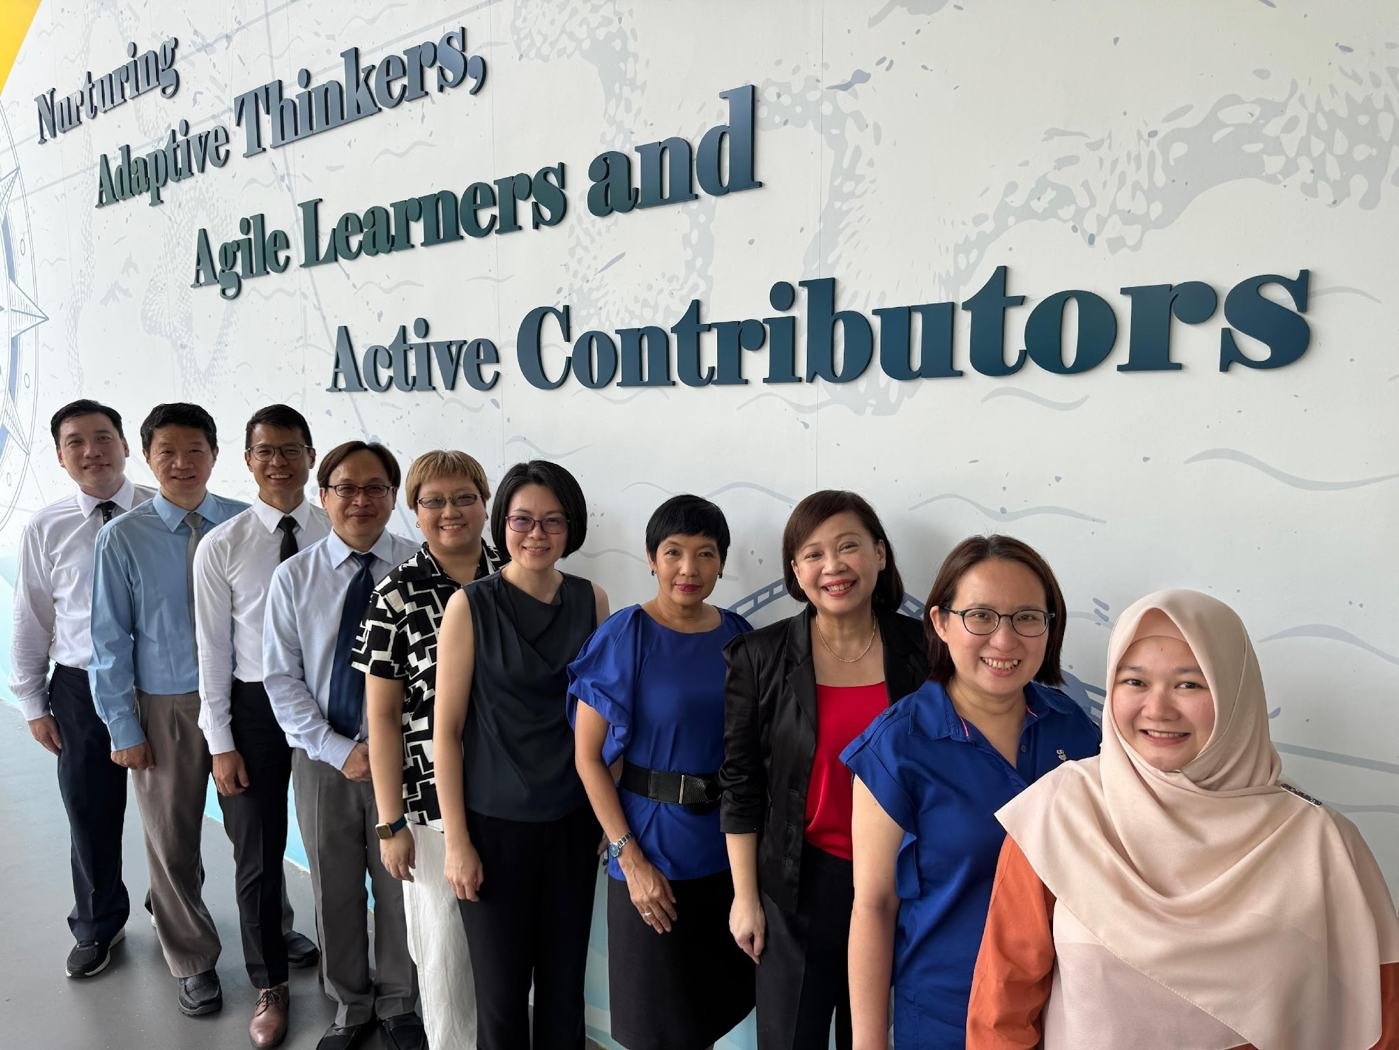
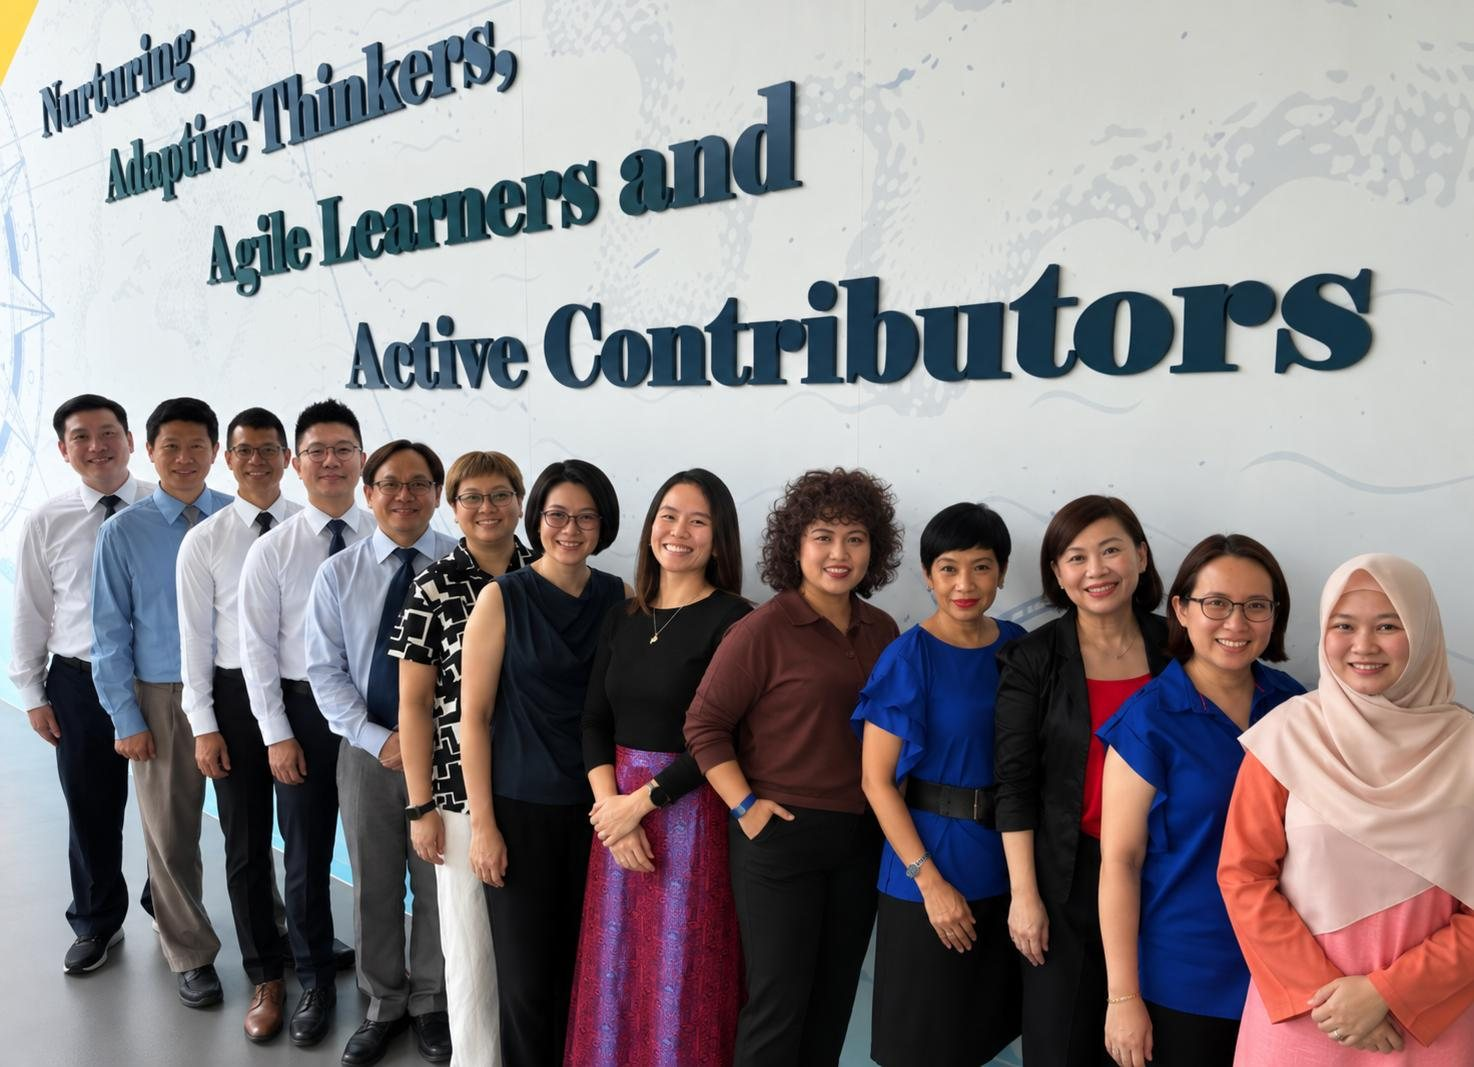
Canteen: a new animated food slide, and the newer staff photo
- New slide after 'Our canteen makeover!': 'Wide selection. Nutritious. Yummy!'.
  Eight round plates are served one by one, the plates shot from above turn
  slowly, and every two seconds one turns over to show the stall holder, then
  a second dish (16 dishes and 7 stall holders from 15 photos, none repeated).
- The photos are round cuts, 640 px, about 70 KB each (1.6 MB in all, from
  2 GB of originals), fetched as soon as the chapter opens.
- 'Our caring teachers': the second photo is replaced with the newer group shot.
- The end to end test checks the plates, their photos and the turning.

Claude-Session: https://claude.ai/code/session_01HFLukEU6NirBTN83HDK143

diff --git a/gem/index.html b/gem/index.html
@@ -1637,6 +1637,31 @@ footer:hover #prevBtn, footer:hover #nextBtn{opacity:1}   /* over the footer the
 .scene.cream .sc-logos .lg, .scene.cream .sc-links .qr{ border:1px solid var(--paper-line); box-shadow:none }
 .scene.cream .ft-media.round figure{ box-shadow:0 0 0 3px var(--red) }
 .scene.cream .sc-gal figure, .scene.cream .ft-media figure, .scene.cream .sc-qimg figure, .scene.cream .fit-box > figure .fx, .scene.cream .fit-box > figure img{ box-shadow:0 1px 2px rgba(0,12,83,.10), 0 10px 24px rgba(0,12,83,.07) }
+
+/* ============================================================================================================
+   THE FEAST (kind:'feast'): the canteen's dishes as round plates on the table. They are served one by one,
+   the plates shot from above turn slowly, and each plate turns over to show who cooks it, then the next dish.
+   ============================================================================================================ */
+.sc-feast{flex:1 1 0; min-height:0; width:100%; max-height:calc(70*var(--vh)); container-type:size; display:flex; flex-direction:column; align-items:center; justify-content:center; --pd:min(46cqh,19.4cqw)}
+.fs-row{display:flex; justify-content:center; gap:calc(var(--pd)*.14)}
+.fs-row:first-child{margin-right:calc(var(--pd)*.57)} .fs-row + .fs-row{margin-left:calc(var(--pd)*.57); margin-top:calc(var(--pd)*.02)}
+.fs-plate{position:relative; flex:none; width:var(--pd); height:var(--pd); margin:0; animation:fsIn .95s cubic-bezier(.2,.9,.25,1) both; animation-delay:calc(450ms + var(--i)*130ms)}
+@keyframes fsIn{0%{opacity:0; transform:translate(var(--fx),var(--fy)) rotate(var(--fr)) scale(.5)} 68%{opacity:1; transform:translate(0,0) rotate(7deg) scale(1.05)} 100%{opacity:1; transform:none}}
+.fs-bob{position:absolute; inset:0; perspective:1400px; animation:fsBob 4.4s ease-in-out infinite alternate; animation-delay:calc(var(--i)*-.83s)}
+@keyframes fsBob{from{transform:translateY(-1.6%)} to{transform:translateY(1.6%)}}
+.fs-flip{position:absolute; inset:0; transform-style:preserve-3d; transform:rotateY(calc(var(--t,0)*180deg)); transition:transform .95s cubic-bezier(.3,1.25,.4,1)}
+.fs-side{position:absolute; inset:0; border-radius:50%; overflow:hidden; backface-visibility:hidden; -webkit-backface-visibility:hidden; background:var(--cream-deep);
+  box-shadow:0 calc(var(--pd)*.06) calc(var(--pd)*.09) calc(var(--pd)*-.05) rgba(70,48,12,.5), 0 0 0 1px rgba(0,12,83,.07)}
+.fs-back{transform:rotateY(180deg)}
+.fs-side img{display:block; width:100%; height:100%; object-fit:cover; border-radius:50%}
+.fs-plate.spin .fs-side img.dish{animation:fsSpin 90s linear infinite} .fs-plate.spin:nth-child(even) .fs-side img.dish{animation-direction:reverse}
+@keyframes fsSpin{to{transform:rotate(360deg)}}
+.fs-plate figcaption{position:absolute; z-index:3; left:50%; bottom:-3%; transform:translateX(-50%); white-space:nowrap; background:var(--cream); color:var(--paper-ink); border:1px solid var(--paper-line); border-radius:999px;
+  padding:.22em .9em .26em; font-family:var(--sans); font-weight:700; font-size:max(20px,calc(1.12*var(--vw))); line-height:1.2; animation:fsCap .5s var(--ease) both; animation-delay:calc(1300ms + var(--i)*130ms)}
+@keyframes fsCap{from{opacity:0; transform:translate(-50%,60%)} to{opacity:1; transform:translate(-50%,0)}}
+.fs-w{display:inline-block; animation:fsWord .6s cubic-bezier(.2,1.4,.3,1) both; animation-delay:calc(200ms + var(--w)*620ms)}
+@keyframes fsWord{from{opacity:0; transform:translateY(.45em) scale(.92)} to{opacity:1; transform:none}}
+html.calm .fs-plate, html.calm .fs-bob, html.calm .fs-w, html.calm .fs-plate figcaption, html.calm .fs-side img{animation:none} html.calm .fs-flip{transition:none}
 </style>
 </head>
 <body>
@@ -2852,6 +2877,7 @@ function phoneFor(s){
     case 'cover':     return { t:'point', icon:s.icon||'', title:s.title||'', line:s.sub||'' };
     case 'photo':     return { t:'look', icon:'eye', title:s.title||'Look up', line:s.caption||'' };
     case 'gallery':   return { t:'look', icon:'eye', title:s.title||'Look up', line:s.sub||s.note||'' };
+    case 'feast':     return { t:'look', icon:'eye', title:s.title||'Look up', line:s.sub||'' };
     case 'feature':   { const k=(s.items||[]).map(x=>typeof x==='string'?x:(x.title||x.body)).filter(Boolean).slice(0,4); return k.length ? { t:'keys', title:s.title||'', keys:k } : { t:'point', icon:'', title:s.title||'', line:s.sub||'' }; }
     case 'people':    return { t:'keys', title:s.title||'', keys:(s.items||[]).map(x=>[x.name,x.role].filter(Boolean).join(' · ')).filter(Boolean).slice(0,5) };
     case 'columns':   return { t:'keys', title:s.title||'', keys:(s.cols||[]).map(c=>c.head+': '+(c.items[0]||'')) };
@@ -3090,6 +3116,13 @@ function animateSlide(s, body){
       T(()=>{ now(2); body.querySelector('.cr-shine')?.classList.add('go'); }, landed+150);
       T(()=>lis.forEach(li=>{ li.classList.remove('now'); li.classList.add('lit','done'); }), landed+2200); } }
   if(s.kind==='stairs') runStairs(body, live, reduce);
+  if(s.kind==='feast' && !reduce){   // every two seconds a plate turns over: the dish, who cooks it, the next dish
+    const ps=[...body.querySelectorAll('.fs-plate')].map(el=>({ el, faces:JSON.parse(el.dataset.faces||'[]'), k:0, t:0 })).filter(p=>p.faces.length>1);
+    const turn=p=>{ p.k=(p.k+1)%p.faces.length; p.t++; const f=p.faces[p.k], im=p.el.querySelector(p.t%2?'.fs-back img':'.fs-front img');
+      if(im.getAttribute('src')!==IMG(f.s)) im.src=IMG(f.s); im.classList.toggle('dish', f.t==='dish'); p.el.querySelector('.fs-flip').style.setProperty('--t', p.t); return f; };
+    const order=[0,5,2,7,1,4,3,6].filter(i=>i<ps.length); let n=0;
+    const tick=()=>{ if(!ps.length) return; const p=ps[order[n++%order.length]], f=turn(p); if(f.t==='by') T(()=>turn(p), 3800); T(tick, 2000); };
+    T(tick, 3400); }
   if(s.kind==='mix'){ const box=body.querySelector('.sc-mixer'); if(!box) return; const W=box.clientWidth, H=box.clientHeight, nC=+box.dataset.classes, nL=+box.dataset.levels, dots=[...box.querySelectorAll('.mx-dot')];
       const gap=W*.02;
       // One box height for both phases (the tallest), and the biggest dots that fit it, so the boxes fill the
@@ -3310,6 +3343,14 @@ function slideHTML(s){
       return `${T(s.title, s.sub?' sm tight':' sm')}${s.sub?`<p class="sc-sub2 bi${cnt?' has-stat':''}"${D_(140)}>${escH(s.sub)}${cnt}</p>`:''}
         <div class="sc-gal fit-box${s.whole?' whole':''} bi"${D_(160)}>${im.map(FIG).join('')}</div>
         ${s.note?`<p class="sc-note bi"${D_(300)}>${escH(s.note)}</p>`:''}`; }
+    case 'feast': {   // round plates: each is { a, b, by, cap, spin } = a dish, a second dish, who cooks it, a label, and whether it was shot from above (so it may turn)
+      const P=s.plates||[], half=Math.ceil(P.length/2), words=String(s.title||'').match(/[^.!?]+[.!?]*/g)||[];
+      const plate=(p,i)=>{ const faces=[{s:p.a,t:'dish'}, ...(p.by?[{s:p.by,t:'by'}]:[]), ...(p.b?[{s:p.b,t:'dish'}]:[]), ...(p.by&&p.b?[{s:p.by,t:'by'}]:[])], nx=faces[1]||faces[0], side=i%2?1:-1;
+        return `<figure class="fs-plate${p.spin?' spin':''}" style="--i:${i}; --fx:${side*(260+(i%3)*90)}px; --fy:${-(180+(i%4)*60)}px; --fr:${side*(150+(i%3)*40)}deg" data-faces="${escH(JSON.stringify(faces))}">
+          <div class="fs-bob"><div class="fs-flip"><span class="fs-side fs-front"><img class="dish" src="${IMG(p.a)}" alt="${escH(p.cap||'')}"></span><span class="fs-side fs-back"><img${nx.t==='dish'?' class="dish"':''} src="${IMG(nx.s)}" alt=""></span></div></div>
+          ${p.cap?`<figcaption>${escH(p.cap)}</figcaption>`:''}</figure>`; };
+      return `<h2 class="sc-t sm${s.sub?' tight':''} bi"${D_(60)}>${words.map((w,i)=>`<span class="fs-w" style="--w:${i}">${escH(w.trim())}</span>`).join(' ')}</h2>${s.sub?`<p class="sc-sub2 bi"${D_(140)}>${escH(s.sub)}</p>`:''}
+        <div class="sc-feast"><div class="fs-row">${P.slice(0,half).map(plate).join('')}</div><div class="fs-row">${P.slice(half).map((p,i)=>plate(p,i+half)).join('')}</div></div>`; }
     case 'feature': { const im=(s.imgs||(s.img?[s.img]:[])).map(x=>typeof x==='string'?{src:x}:x).map(x=>s.fit&&!x.fit?{...x,fit:s.fit}:x);
       const media = s.round
         ? `<div class="ft-media round bi"${D_(140)}>${im.slice(0,1).map(x=>`<figure><img src="${IMG(x.src)}" alt="" style="object-position:${escH(x.pos||s.pos||'50% 30%')}"></figure>`).join('')}</div>`
@@ -3475,7 +3516,7 @@ function paintSceneLive(){
 function countUp(el, from, to, ms, suffixHTML=''){ const t0=performance.now();
   if(CALM){ el.innerHTML=to+suffixHTML; return; }
   (function tick(now){ const p=Math.min(1,(now-t0)/ms), e=1-Math.pow(1-p,3); el.innerHTML=Math.round(from+(to-from)*e)+suffixHTML; if(p<1 && el.isConnected) requestAnimationFrame(tick); })(t0); }
-function slideImgs(s){ if(!s) return []; return [s.img && (typeof s.img==='string'?s.img:s.img.src), ...(s.imgs||[]).map(x=>typeof x==='string'?x:x.src), ...((s.items||[]).map(x=>x&&x.img))].filter(Boolean); }
+function slideImgs(s){ if(!s) return []; return [s.img && (typeof s.img==='string'?s.img:s.img.src), ...(s.imgs||[]).map(x=>typeof x==='string'?x:x.src), ...((s.items||[]).map(x=>x&&x.img)), ...(s.plates||[]).flatMap(p=>[p.a,p.b,p.by])].filter(Boolean); }
 const preloaded=new Set();
 function preloadSlide(s){ slideImgs(s).forEach(p=>{ const u=IMG(p); if(preloaded.has(u)) return; preloaded.add(u); const im=new Image(); im.src=u; }); }
 function paintScene(){
@@ -3506,6 +3547,7 @@ function paintScene(){
   setTimeout(()=>{ if(!live()) return; body.querySelectorAll('[data-ring]').forEach(c=>c.style.strokeDashoffset=String(100-(+c.dataset.ring||0))); body.querySelectorAll('.sc-row .trk i[data-w]').forEach((el,i)=>setTimeout(()=>el.style.width=el.dataset.w+'%', i*60)); }, 420);
   if(s.kind==='live' || s.kind==='ask') setTimeout(paintSceneLive, 40);
   animateSlide(s, body);
+  d.slides.forEach(x=>{ if(x.kind==='feast') preloadSlide(x); });   // many small photos: fetched when the chapter opens, so the plates never arrive empty
   preloadSlide(d.slides[sceneIdx+1]) ; preloadSlide(journeySteps[currentStep+1] && deckFor(journeySteps[currentStep+1])?.slides[0]);
   if(isPresenter) updatePPStep();
   const lastOne=currentStep===journeySteps.length-1 && sceneIdx===d.slides.length-1; if(!(st.type==='poll' && !st.revealed)) nextBtn.textContent=lastOne?'Finish':'Next ❯';

diff --git a/gem/deck/img/sizes.js b/gem/deck/img/sizes.js
@@ -1,3 +1,3 @@
 /* Photo sizes for the slides (width, height), so photos are laid out whole before they load.
    Regenerate after adding photos: python3 deck/img/make_sizes.py */
-window.BTY_IMG_SIZES = {"b/alp-1.jpg":[1280,731],"b/alp-2.jpg":[999,371],"b/alp-3.jpg":[1279,773],"b/alp-4.jpg":[1920,790],"b/alp-bh-v2.jpg":[865,618],"b/alp-bh.jpg":[865,839],"b/alp3-v2.jpg":[1200,651],"b/alp3.jpg":[1200,785],"b/award-3.jpg":[1283,1050],"b/award-table.jpg":[1400,732],"b/award-team.jpg":[1400,822],"b/canoe-2.jpg":[1049,1050],"b/canoe.jpg":[1199,1200],"b/clip-cca.jpg":[1030,767],"b/clip-habits-v2.jpg":[1400,639],"b/clip-habits.jpg":[1400,854],"b/ecg-1.jpg":[1399,1050],"b/ecg-2.jpg":[1400,1050],"b/ecg-3.jpg":[1400,824],"b/gifts-1.jpg":[1868,1200],"b/gifts-2.jpg":[960,663],"b/gifts-3.jpg":[959,662],"b/grow.jpg":[1160,693],"b/journal-1.jpg":[630,878],"b/journal-2.jpg":[628,877],"b/journal-3.jpg":[598,850],"b/journal-4.jpg":[578,843],"b/maker-3d.jpg":[1027,789],"b/maker-drone.jpg":[636,474],"b/maker-heatpress.jpg":[497,373],"b/maker-laser.jpg":[463,341],"b/maker-neon.jpg":[343,258],"b/maker-sewing.jpg":[553,414],"b/maker-space.jpg":[878,322],"b/morning.jpg":[1124,959],"b/notes-1.jpg":[730,1050],"b/notes-2.jpg":[746,960],"b/pa-1.jpg":[960,525],"b/pa-2.jpg":[960,462],"b/pa-3.jpg":[897,1000],"b/pa-4.jpg":[934,1050],"b/pa-5.jpg":[1021,999],"b/pa-6.jpg":[646,639],"b/pa.jpg":[1600,900],"b/pld-1.jpg":[1162,1050],"b/pld-2.jpg":[1050,1050],"b/practice.jpg":[984,617],"b/rockwell.jpg":[1400,782],"b/sports.jpg":[1600,900],"b/ug.jpg":[1600,900],"f/alum-goh.jpg":[162,251],"f/alum-loh.jpg":[163,251],"f/alum-ow.jpg":[163,251],"f/alum-shih.jpg":[162,251],"f/choose.jpg":[1600,1200],"f/future-1.jpg":[444,455],"f/future-2.jpg":[570,585],"f/future-3.jpg":[537,549],"f/future-4.jpg":[513,532],"f/future-5.jpg":[448,456],"f/map.jpg":[1223,668],"f/parent-quote.jpg":[1050,1050],"f/rainbow-v2.jpg":[1240,784],"f/rainbow.jpg":[1280,905],"c/el-1.jpg":[421,280],"c/el-2.jpg":[373,247],"c/el-3.jpg":[266,467],"c/el-4.jpg":[365,274],"c/ganjunhuan.jpg":[338,435],"c/lead-1.jpg":[910,960],"c/lead-2.jpg":[1400,764],"c/lead-3.jpg":[1400,674],"c/math-1.jpg":[311,234],"c/math-2.jpg":[311,233],"c/math-3.jpg":[309,231],"c/mt-1.jpg":[1400,934],"c/mt-2.jpg":[1400,1049],"c/mt-3.jpg":[1399,1050],"c/nx101-1.jpg":[1400,505],"c/nx101-2.jpg":[1400,934],"c/nx101-3.jpg":[1400,993],"c/nx101-4.jpg":[1275,1050],"c/nx201-1.jpg":[1000,613],"c/nx201-2.jpg":[1400,727],"c/nx201-3.jpg":[1400,951],"c/nx201-4.jpg":[586,432],"c/nx201-5.jpg":[867,665],"c/sci-1.jpg":[360,202],"c/sci-2.jpg":[674,414],"c/sci-3.jpg":[774,1050],"c/sci-4.jpg":[788,1050],"c/simc.jpg":[485,684],"c/stewards.jpg":[1031,1050],"c/via-1.jpg":[1400,788],"c/via-2.jpg":[1400,1049],"c/via-3.jpg":[659,472],"c/wheel.png":[1200,800],"e/canteen-1.jpg":[366,609],"e/canteen-2.jpg":[741,616],"e/canteen-3.jpg":[759,631],"e/canteen-4.jpg":[752,625],"e/canteen-cna-v2.jpg":[1153,844],"e/canteen-cna.jpg":[1153,894],"e/classroom.jpg":[1600,1200],"e/entrance.jpg":[1400,997],"e/foyer.jpg":[1199,727],"e/future-1.jpg":[998,996],"e/future-2.jpg":[1322,755],"e/future-3.jpg":[1335,748],"e/heritage-v2.jpg":[1356,776],"e/heritage.jpg":[1356,776],"e/library.jpg":[1400,608],"e/linkway.jpg":[1238,708],"e/teachers-1.jpg":[1400,938],"e/teachers-2.jpg":[1399,1050],"a/clip-bh.jpg":[1173,746],"a/clip-future.jpg":[1069,858],"a/clip-st.jpg":[1153,857],"a/crest.png":[848,1200],"a/identity.jpg":[1920,1081],"a/nabilah.jpg":[830,618],"a/results.jpg":[599,442],"d/bali-1.jpg":[1440,848],"d/bali-2.jpg":[1400,728],"d/bali-3.jpg":[1400,951],"d/bali-4.jpg":[1279,944],"d/bali-5.jpg":[1367,1050],"d/eu-1.jpg":[1920,1026],"d/eu-2.jpg":[1400,821],"d/eu-3.jpg":[1125,922],"d/ind-1.jpg":[1920,1079],"d/ind-2.jpg":[1400,788],"d/ind-3.jpg":[1400,788],"d/ind-4.jpg":[1400,788],"d/jp-1.jpg":[461,346],"d/jp-2.jpg":[464,348],"d/logo-astar.png":[530,196],"d/logo-deloitte.png":[519,273],"d/logo-ite.png":[1024,976],"d/logo-nus.png":[1200,630],"d/logo-pil.png":[600,315],"d/logo-rockwell.png":[1200,319],"d/logo-science.png":[296,162],"d/logo-sph.png":[1200,857],"d/nz-1.jpg":[910,960],"d/nz-2.jpg":[1400,1050],"d/nz-3.jpg":[1313,1050],"d/nz-4.jpg":[1227,1050],"d/worldmap.jpg":[1284,726]};
+window.BTY_IMG_SIZES = {"b/alp-1.jpg":[1280,731],"b/alp-2.jpg":[999,371],"b/alp-3.jpg":[1279,773],"b/alp-4.jpg":[1920,790],"b/alp-bh-v2.jpg":[865,618],"b/alp-bh.jpg":[865,839],"b/alp3-v2.jpg":[1200,651],"b/alp3.jpg":[1200,785],"b/award-3.jpg":[1283,1050],"b/award-table.jpg":[1400,732],"b/award-team.jpg":[1400,822],"b/canoe-2.jpg":[1049,1050],"b/canoe.jpg":[1199,1200],"b/clip-cca.jpg":[1030,767],"b/clip-habits-v2.jpg":[1400,639],"b/clip-habits.jpg":[1400,854],"b/ecg-1.jpg":[1399,1050],"b/ecg-2.jpg":[1400,1050],"b/ecg-3.jpg":[1400,824],"b/gifts-1.jpg":[1868,1200],"b/gifts-2.jpg":[960,663],"b/gifts-3.jpg":[959,662],"b/grow.jpg":[1160,693],"b/journal-1.jpg":[630,878],"b/journal-2.jpg":[628,877],"b/journal-3.jpg":[598,850],"b/journal-4.jpg":[578,843],"b/maker-3d.jpg":[1027,789],"b/maker-drone.jpg":[636,474],"b/maker-heatpress.jpg":[497,373],"b/maker-laser.jpg":[463,341],"b/maker-neon.jpg":[343,258],"b/maker-sewing.jpg":[553,414],"b/maker-space.jpg":[878,322],"b/morning.jpg":[1124,959],"b/notes-1.jpg":[730,1050],"b/notes-2.jpg":[746,960],"b/pa-1.jpg":[960,525],"b/pa-2.jpg":[960,462],"b/pa-3.jpg":[897,1000],"b/pa-4.jpg":[934,1050],"b/pa-5.jpg":[1021,999],"b/pa-6.jpg":[646,639],"b/pa.jpg":[1600,900],"b/pld-1.jpg":[1162,1050],"b/pld-2.jpg":[1050,1050],"b/practice.jpg":[984,617],"b/rockwell.jpg":[1400,782],"b/sports.jpg":[1600,900],"b/ug.jpg":[1600,900],"f/alum-goh.jpg":[162,251],"f/alum-loh.jpg":[163,251],"f/alum-ow.jpg":[163,251],"f/alum-shih.jpg":[162,251],"f/choose.jpg":[1600,1200],"f/future-1.jpg":[444,455],"f/future-2.jpg":[570,585],"f/future-3.jpg":[537,549],"f/future-4.jpg":[513,532],"f/future-5.jpg":[448,456],"f/map.jpg":[1223,668],"f/parent-quote.jpg":[1050,1050],"f/rainbow-v2.jpg":[1240,784],"f/rainbow.jpg":[1280,905],"c/el-1.jpg":[421,280],"c/el-2.jpg":[373,247],"c/el-3.jpg":[266,467],"c/el-4.jpg":[365,274],"c/ganjunhuan.jpg":[338,435],"c/lead-1.jpg":[910,960],"c/lead-2.jpg":[1400,764],"c/lead-3.jpg":[1400,674],"c/math-1.jpg":[311,234],"c/math-2.jpg":[311,233],"c/math-3.jpg":[309,231],"c/mt-1.jpg":[1400,934],"c/mt-2.jpg":[1400,1049],"c/mt-3.jpg":[1399,1050],"c/nx101-1.jpg":[1400,505],"c/nx101-2.jpg":[1400,934],"c/nx101-3.jpg":[1400,993],"c/nx101-4.jpg":[1275,1050],"c/nx201-1.jpg":[1000,613],"c/nx201-2.jpg":[1400,727],"c/nx201-3.jpg":[1400,951],"c/nx201-4.jpg":[586,432],"c/nx201-5.jpg":[867,665],"c/sci-1.jpg":[360,202],"c/sci-2.jpg":[674,414],"c/sci-3.jpg":[774,1050],"c/sci-4.jpg":[788,1050],"c/simc.jpg":[485,684],"c/stewards.jpg":[1031,1050],"c/via-1.jpg":[1400,788],"c/via-2.jpg":[1400,1049],"c/via-3.jpg":[659,472],"c/wheel.png":[1200,800],"e/canteen-1.jpg":[366,609],"e/canteen-2.jpg":[741,616],"e/canteen-3.jpg":[759,631],"e/canteen-4.jpg":[752,625],"e/canteen-cna-v2.jpg":[1153,844],"e/canteen-cna.jpg":[1153,894],"e/classroom.jpg":[1600,1200],"e/entrance.jpg":[1400,997],"e/foyer.jpg":[1199,727],"e/future-1.jpg":[998,996],"e/future-2.jpg":[1322,755],"e/future-3.jpg":[1335,748],"e/heritage-v2.jpg":[1356,776],"e/heritage.jpg":[1356,776],"e/library.jpg":[1400,608],"e/linkway.jpg":[1238,708],"e/teachers-1.jpg":[1400,938],"e/teachers-2.jpg":[1474,1067],"e/food/beehoon-a.jpg":[640,640],"e/food/beehoon-b.jpg":[640,640],"e/food/beehoon-by.jpg":[640,640],"e/food/fruit-a.jpg":[640,640],"e/food/fruit-b.jpg":[640,640],"e/food/fruit-by.jpg":[640,640],"e/food/grill-a.jpg":[640,640],"e/food/grill-b.jpg":[640,640],"e/food/grill-by.jpg":[640,640],"e/food/malay-a.jpg":[640,640],"e/food/malay-b.jpg":[640,640],"e/food/noodles-a.jpg":[640,640],"e/food/noodles-b.jpg":[640,640],"e/food/noodles-by.jpg":[640,640],"e/food/rice-a.jpg":[640,640],"e/food/rice-b.jpg":[640,640],"e/food/rice-by.jpg":[640,640],"e/food/tandoor-a.jpg":[640,640],"e/food/tandoor-b.jpg":[640,640],"e/food/tandoor-by.jpg":[640,640],"e/food/waffle-a.jpg":[640,640],"e/food/waffle-b.jpg":[640,640],"e/food/waffle-by.jpg":[640,640],"a/bee-1.png":[108,80],"a/bee-2.png":[89,86],"a/bee-3.png":[81,108],"a/bee-4.png":[87,93],"a/bee-5.png":[102,85],"a/bee-6.png":[103,83],"a/bee-7.png":[86,100],"a/bee-8.png":[79,107],"a/bee-9.png":[89,87],"a/clip-bh.jpg":[1173,746],"a/clip-future.jpg":[1069,858],"a/clip-st.jpg":[1153,857],"a/crest-field.png":[782,976],"a/crest-ribbon.png":[782,976],"a/crest.png":[848,1200],"a/identity.jpg":[1920,1081],"a/nabilah.jpg":[830,618],"a/results.jpg":[599,442],"d/bali-1.jpg":[1440,848],"d/bali-2.jpg":[1400,728],"d/bali-3.jpg":[1400,951],"d/bali-4.jpg":[1279,944],"d/bali-5.jpg":[1367,1050],"d/eu-1.jpg":[1920,1026],"d/eu-2.jpg":[1400,821],"d/eu-3.jpg":[1125,922],"d/ind-1.jpg":[1920,1079],"d/ind-2.jpg":[1400,788],"d/ind-3.jpg":[1400,788],"d/ind-4.jpg":[1400,788],"d/jp-1.jpg":[461,346],"d/jp-2.jpg":[464,348],"d/logo-astar.png":[530,196],"d/logo-deloitte.png":[519,273],"d/logo-ite.png":[1024,976],"d/logo-nus.png":[1200,630],"d/logo-pil.png":[600,315],"d/logo-rockwell.png":[1200,319],"d/logo-science.png":[296,162],"d/logo-sph.png":[1200,857],"d/nz-1.jpg":[910,960],"d/nz-2.jpg":[1400,1050],"d/nz-3.jpg":[1313,1050],"d/nz-4.jpg":[1227,1050],"d/worldmap.jpg":[1284,726]};

diff --git a/gem/deck/slides.js b/gem/deck/slides.js
@@ -308,6 +308,20 @@ window.BTY_DECKS = {
       notes:'Read the rest aloud: To love and care is to do what is required for each child to realise and actualise his or her potential, and to gradually become the best version of themselves. It is about learning who they are, learning with and from them, and to then know what they need most at each stage of their journey so as to set them on the right course to lead meaningful, purposeful lives.' },
     { kind:'gallery', tone:'cream', title:'Our canteen makeover!', imgs:['e/canteen-1.jpg','e/canteen-2.jpg','e/canteen-3.jpg','e/canteen-4.jpg',{ src:'e/canteen-cna-v2.jpg', fit:'contain', cap:'CNA' }],
       notes:'Our renewed canteen, and our canteen operator, featured on CNA.' },
+    // The food. Each plate: a = a dish, b = a second dish, by = the stall holder, cap = the label (leave cap out for no label),
+    // spin = shot from above, so the plate may turn. The photos are round cuts, 640 px, in deck/img/e/food/.
+    { kind:'feast', tone:'cream', title:'Wide selection. Nutritious. Yummy!', sub:'Freshly prepared every day, and served with a smile.',
+      plates:[
+        { a:'e/food/noodles-a.jpg', b:'e/food/noodles-b.jpg', by:'e/food/noodles-by.jpg', cap:'Noodles', spin:true },
+        { a:'e/food/tandoor-a.jpg', b:'e/food/tandoor-b.jpg', by:'e/food/tandoor-by.jpg', cap:'Tandoori & naan', spin:true },
+        { a:'e/food/beehoon-b.jpg', b:'e/food/beehoon-a.jpg', by:'e/food/beehoon-by.jpg', cap:'Bee hoon & soup', spin:true },
+        { a:'e/food/fruit-a.jpg', b:'e/food/fruit-b.jpg', by:'e/food/fruit-by.jpg', cap:'Fruit & smoothies' },
+        { a:'e/food/malay-a.jpg', b:'e/food/malay-b.jpg', cap:'Malay rice', spin:true },
+        { a:'e/food/grill-a.jpg', b:'e/food/grill-b.jpg', by:'e/food/grill-by.jpg', cap:'Pizza, burgers & grills', spin:true },
+        { a:'e/food/rice-b.jpg', b:'e/food/rice-a.jpg', by:'e/food/rice-by.jpg', cap:'Mixed rice', spin:true },
+        { a:'e/food/waffle-a.jpg', b:'e/food/waffle-b.jpg', by:'e/food/waffle-by.jpg', cap:'Waffles & mac and cheese' },
+      ],
+      notes:'The food: a wide selection, nutritious and yummy. The plates keep moving while you speak: every two seconds one turns over to show the stall holder who cooks it, then a second dish. [confirm] The eight labels are read off the photos.' },
     { kind:'photo', img:'e/classroom.jpg', title:'Our classrooms', notes:'Bright, flexible classrooms.' },
     { kind:'gallery', title:'Environment matters!', imgs:[{ src:'e/foyer.jpg', cap:'Foyer' },{ src:'e/heritage-v2.jpg', cap:'Heritage Gallery' },{ src:'e/library.jpg', cap:'Library & classrooms' },{ src:'e/linkway.jpg', cap:'Student Pods' },{ src:'e/entrance.jpg', cap:'Entrance' }],
       notes:'Spaces designed for learning and belonging.' },

diff --git a/README.md b/README.md
@@ -66,6 +66,9 @@ Use one big screen at a time.
   NX3014 Aorere College, NX3015 Geography in Bali). South Korea is placed third, then Literature in Bali, Estonia and Hanoi after
   NX3015: correct the order in `gem/deck/slides.js` (the map) and in the step list in `gem/index.html` (the globe) if that is wrong.
 * **Continuous improvement photos.** New images are wanted: replace `gem/deck/img/e/future-1.jpg`, `future-2.jpg`, `future-3.jpg`.
+* **Canteen plates.** The eight labels on "Wide selection. Nutritious. Yummy!" (Noodles, Tandoori & naan, and so on) are read off the photos.
+  Correct each `cap` in `gem/deck/slides.js`; delete a `cap` to show that plate with no label. The round photos are in `gem/deck/img/e/food/`
+  (640 px, about 70 KB each; the originals stay in Google Drive, folder "Canteen").
 * **Beatty Express.** It replaced "Reading the news" and has no description line yet.
 * The partner logo slide shows 8 logos: partners, not the 6 attachments.
 * "Express", "4E" and "4N" appear beside the Full SBB slide.
